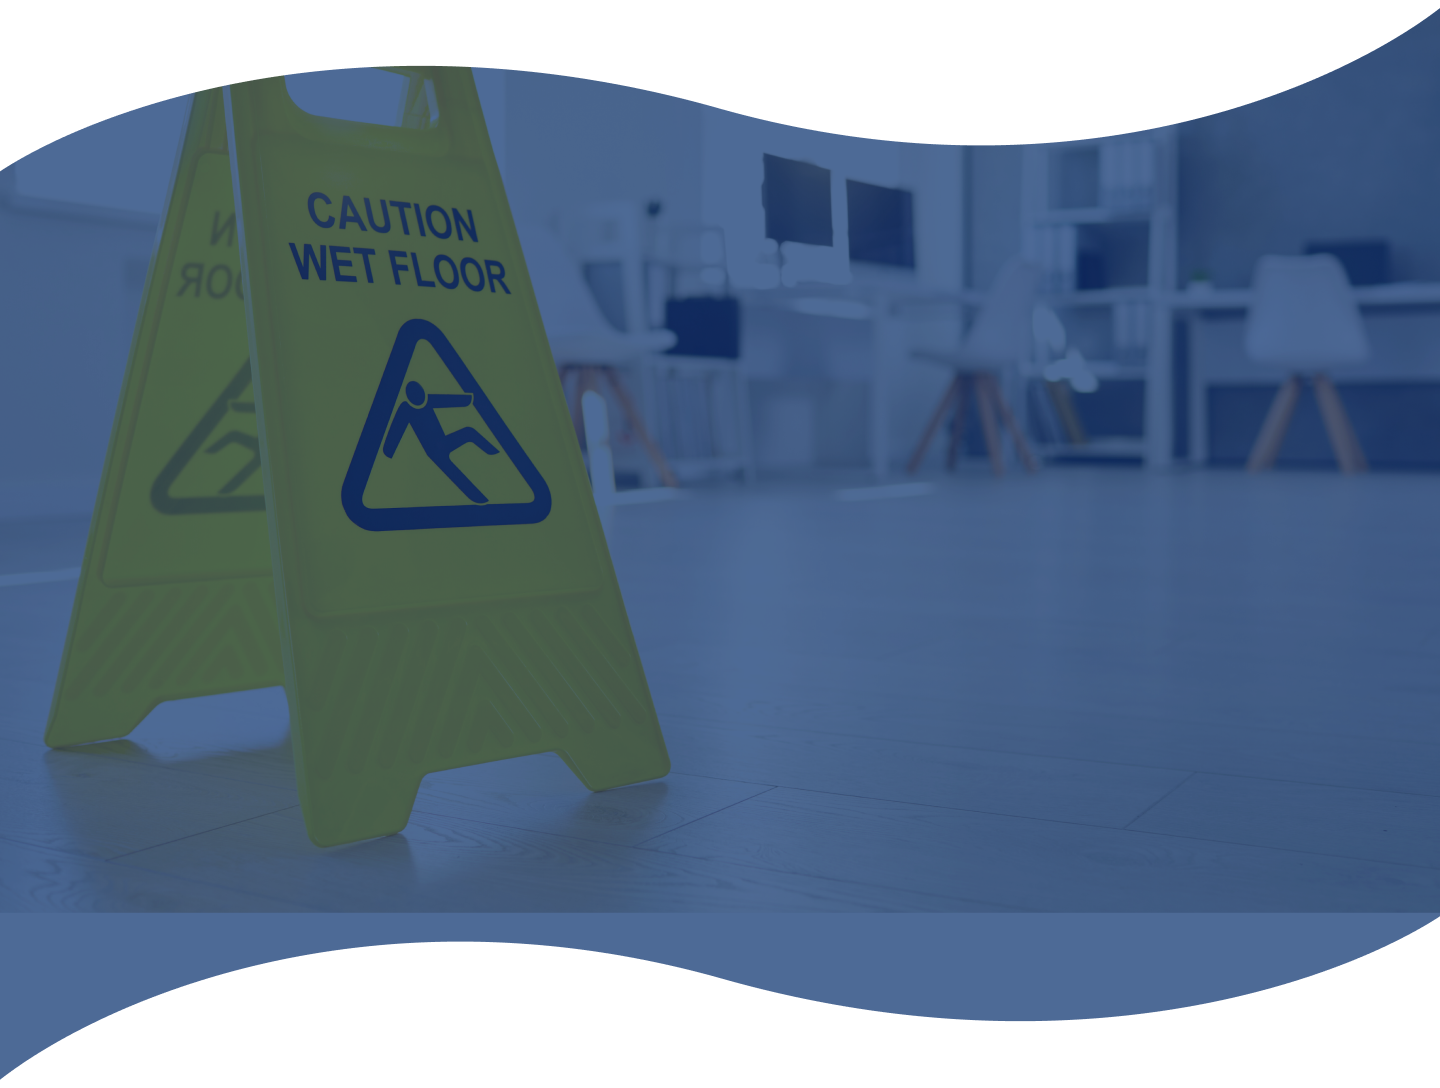
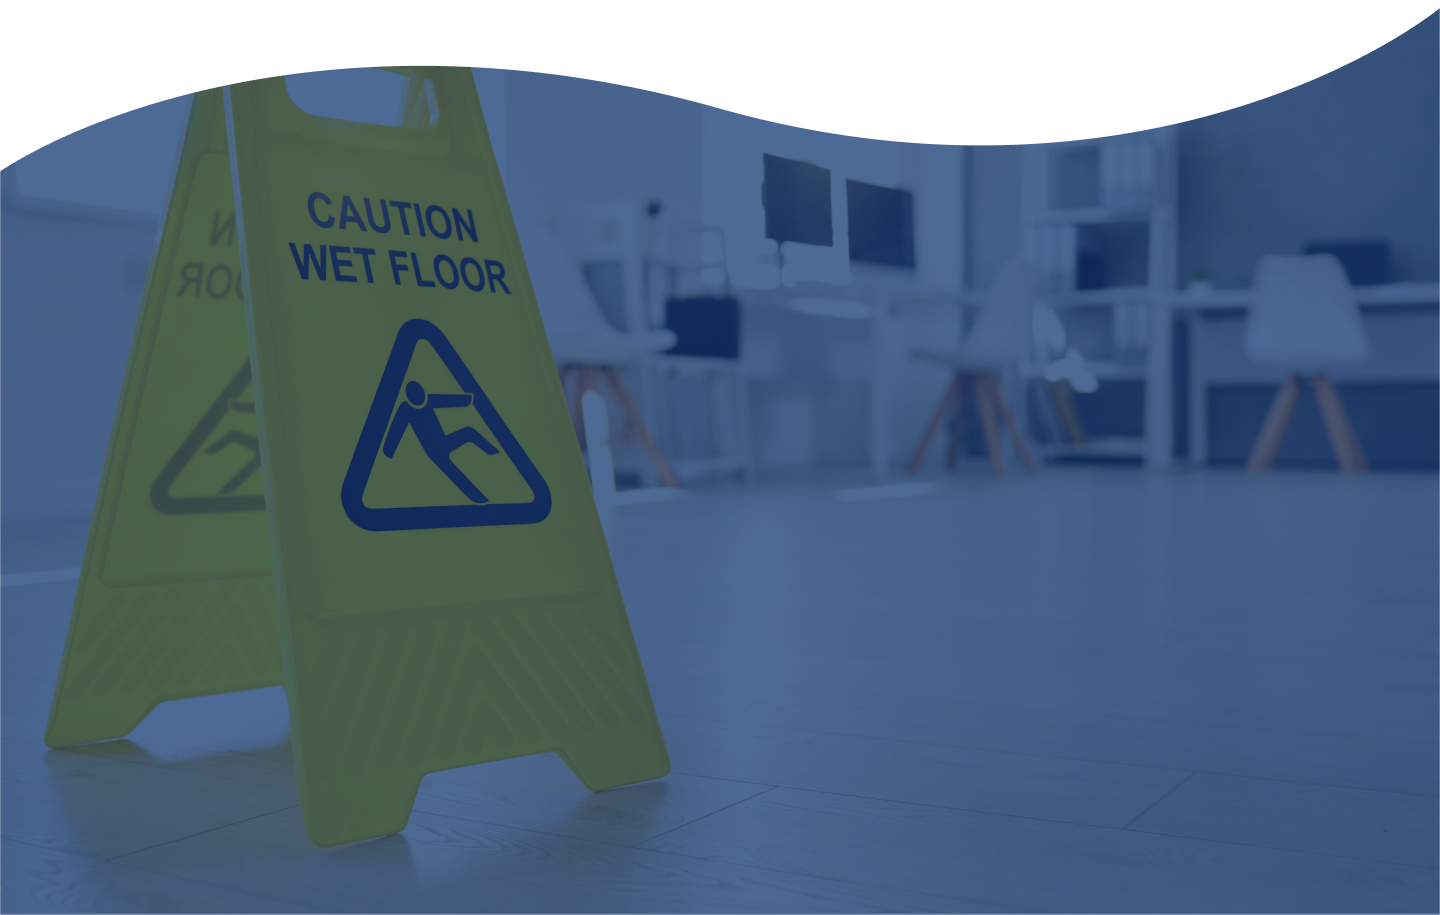
alteracoes3

diff --git a/css/style.css b/css/style.css
@@ -947,7 +947,7 @@ padding-left: 0;
 .missiongrid{
     flex-direction: column;
     width: 100%;
-    max-width: 903px;
+    max-width: 513px;
     padding: 50px;
     gap: 50px;
 }
@@ -1531,10 +1531,9 @@ form {
     margin: auto;
     height: auto;
     margin-top: 100px;
-    margin-bottom: 90px;
     background: url(../assets/Union22.png);
     background-position: cover;
-    background-size: 120%;
+    background-size: 100%;
     background-repeat: no-repeat;
 }
 .contact{
@@ -1544,7 +1543,7 @@ form {
     max-width: 1400px;
     margin: auto;
     height: 100%;
-    padding: 400px 50px 200px 50px;
+    padding: 300px 50px 90px 50px;
 }
 .contacttitle {
     display: flex;
@@ -1637,7 +1636,7 @@ input::placeholder, textarea::placeholder{
  @media screen and (max-width: 1500px) {
     .contactcontainer{
         background: url(../assets/Union22.png) no-repeat;
-        background-size: 100%;
+        background-size: 120%;
         max-height: 800px;
     }
 }
@@ -1792,7 +1791,6 @@ input::placeholder, textarea::placeholder{
 }
 @media screen and (max-width:770px) {
     .contactcontainer{
-        margin-bottom: 20px;
         margin-top: 0px;
         background-position: center;
     }
@@ -1806,8 +1804,8 @@ footer{
     width: 100%;
     max-width: 9999px;
     margin: auto;
-    height: 100px;
-    background-color: #FFF;
+    padding-top: 90px;
+    background-color: #001D47;
     font-family: 'Neue';
 }
 .footergrid{
@@ -1816,7 +1814,7 @@ footer{
     max-width: 1440px;
     margin: auto;
     justify-content: space-between;
-    padding: 0 10px 0 10px;
+    padding: 0 10px 20px 10px;
 }
 .footermenu1, .footermenu2{
     display: flex;
@@ -1828,11 +1826,11 @@ footer{
 }
 .footermenu1 ul li a, .footermenu2 ul li a{
     text-decoration: none;
-    color: #002A68;
+    color: #fff;
     font-family: 'Neue';
     font-size: 16px;
     font-style: normal;
-    font-weight: 600;
+    font-weight: 500;
     line-height: 160%;
 }
 .footermenu1 ul{
@@ -1870,10 +1868,10 @@ footer{
 .adress p{
     text-align: center;
     width: auto;
-    color: #002A68;
+    color: #fff;
     font-family: 'Neue';
     font-size: 16px;
-    font-weight: 600;
+    font-weight: 500;
     line-height: 120%; /* 25.6px */
 }
 .footersocials{
@@ -1883,11 +1881,11 @@ footer{
 .footersocials p{
     text-align: right;
     margin-right: 30px;
-    color: #002A68;
+    color: #fff;
     font-family: 'Neue';
     font-size: 16px;
     font-style: normal;
-    font-weight: 600;
+    font-weight: 500;
     line-height: 160%; /* 25.6px */
 }
 .footersocials ul {
@@ -1908,13 +1906,13 @@ footer{
     max-width: 9999px;
     margin: auto;
     padding: 34px 0;
-    background-color: #fff;
+    background-color: #001D47;
     align-items: center;
     text-align: center;
-    border-top: 1px solid #002a68b4;
+    border-top: 1px solid #fff;
 }
 .rights p{
-    color: #002A68;
+    color: #fff;
     font-family: 'Neue';
     font-size: 14.4px;
     font-weight: 500;
@@ -1925,9 +1923,6 @@ footer{
         position: relative;
         width: 100%;
         max-width: 9999px;
-        margin: auto;
-        height: 100px;
-        background-color: #FFF;
         margin: auto;
     }
     .footergrid{
@@ -1943,15 +1938,6 @@ footer{
     }
     .footermenu2 ul li {
         list-style: none;
-    }
-    .footermenu2 ul li a, .footermenu1 ul li a{
-        text-decoration: none;
-        color: #002A68;
-        font-family: 'Neue';
-        font-size: 16px;
-        font-style: normal;
-        font-weight: 600;
-        line-height: 160%;
     }
     .footermenu2, .footermenu1{
         display: flex;
@@ -2002,12 +1988,6 @@ footer{
     .footersocials p{
         text-align: center;
         margin: 0;
-        color: #002A68;
-        font-family: 'Neue';
-        font-size: 16px;
-        font-style: normal;
-        font-weight: 600;
-        line-height: 160%; 
     }
     .footersocials ul {
         list-style: none;
@@ -2016,7 +1996,6 @@ footer{
         justify-content: center;
         gap: 5px;
         padding-top: 8px;
-        margin-left: 19px;
     }
     .footersocials ul a{
         text-decoration: none;

diff --git a/index.html b/index.html
@@ -102,30 +102,30 @@
                   </a>
                 </div>
                 <div class="servicescard reveal" id="servicecard1">
-                  <a href="./services/postconstruction.html">
+                  <a href="./services/postconstructioncleaning.html">
                     <img src="./assets/services1.jpg" alt="" draggable="false">
                     <h2>Post Construction Cleaning</h2>
-                    <a class="btnservice btn-1" href="./services/postconstruction.html">
+                    <a class="btnservice btn-1" href="./services/postconstructioncleaning.html">
                       See more  <svg width="24" height="24" viewBox="0 0 24 24" fill="none" xmlns="http://www.w3.org/2000/svg">
                       <path d="M16.175 13H4V11H16.175L10.575 5.4L12 4L20 12L12 20L10.575 18.6L16.175 13Z" fill="#002A68"/>
                       </svg></a>
                   </a>
                 </div>
                 <div class="servicescard reveal" id="servicecard2">
-                  <a href="./services/moveinmoveoutcleaning.html">                    
+                  <a href="./services/moveinoutcleaning.html">                    
                     <img src="./assets/services2.jpg" alt="" draggable="false">
                     <h2>Move in  / Out Cleaning</h2>
-                    <a class="btnservice btn-1" href="./services/moveinmoveoutcleaning.html">
+                    <a class="btnservice btn-1" href="./services/moveinoutcleaning.html">
                       See more  <svg width="24" height="24" viewBox="0 0 24 24" fill="none" xmlns="http://www.w3.org/2000/svg">
                       <path d="M16.175 13H4V11H16.175L10.575 5.4L12 4L20 12L12 20L10.575 18.6L16.175 13Z" fill="#002A68"/>
                       </svg></a>
                   </a>
                 </div>
                 <div class="servicescard reveal" id="servicecard3">
-                  <a href="./services/officecleaning.html">
+                  <a href="./services/commercialcleaning.html">
                     <img src="./assets/services3.jpg" alt="" draggable="false">
                     <h2>Office & <br> Commercial Cleaning</h2>
-                    <a class="btnservice btn-1" href="./services/officecleaning.html">
+                    <a class="btnservice btn-1" href="./services/commercialcleaning.html">
                       See more  <svg width="24" height="24" viewBox="0 0 24 24" fill="none" xmlns="http://www.w3.org/2000/svg">
                       <path d="M16.175 13H4V11H16.175L10.575 5.4L12 4L20 12L12 20L10.575 18.6L16.175 13Z" fill="#002A68"/>
                       </svg></a>
@@ -393,7 +393,7 @@
           </ul>
         </div>
         <div class="footerimglogo">
-          <img src="./assets/imglogo.png" alt="" draggable="false">
+          <img src="./assets/Frame29.png" alt="" draggable="false">
         </div>
         <div class="adress">
           <p>6th Ave Cleaning Services

diff --git a/services/commercialcleaning.html b/services/commercialcleaning.html
@@ -68,11 +68,11 @@
     <main>
       <div class="popuptest" id="popup">
        <div class="popupgrid">
-         <div id="popup-3" class="popup">
-           <div class="content content3">
-             <h1>Post Construction<br>
+         <div id="popup-4" class="popup">
+           <div class="content content4">
+             <h1>Commercial<br>
               Cleaning</h1>
-             <p>We recognize the challenges inherent in completing construction projects. Our mission is to simplify the process through our exceptional post-construction cleaning services. We are dedicated to transforming your space into a pristine environment, meticulously prepared and ready for immediate use.</p>
+             <p>Transform your workspace with our meticulous commercial cleaning services. Our tailored cleaning plans enhance the appearance and functionality of your office, creating a productive and inviting environment for your team and clients.</p>
              <a class="bntpop" href="tel:+12165102031">
               <svg width="24" height="25" viewBox="0 0 24 25" fill="none" xmlns="http://www.w3.org/2000/svg">
               <g clip-path="url(#clip0_344_61)">
@@ -85,7 +85,7 @@
               </defs>
               </svg>
                Call now <br>(216)510-2031</a>
-              <img src="../assets/popup3.png" alt="dusting">
+              <img src="../assets/popup4.png" alt="dusting">
            </div>
          </div>
        </div>
@@ -140,7 +140,7 @@
      </ul>
    </div>
    <div class="footerimglogo">
-     <img src="../assets/imglogo.png" alt="" draggable="false">
+     <img src="../assets/Frame29.png" alt="" draggable="false">
    </div>
    <div class="adress">
      <p>6th Ave Cleaning Services

diff --git a/services/postconstructioncleaning.html b/services/postconstructioncleaning.html
@@ -68,11 +68,11 @@
     <main>
       <div class="popuptest" id="popup">
        <div class="popupgrid">
-         <div id="popup-4" class="popup">
-           <div class="content content4">
-             <h1>Commercial<br>
+         <div id="popup-3" class="popup">
+           <div class="content content3">
+             <h1>Post Construction<br>
               Cleaning</h1>
-             <p>Transform your workspace with our meticulous commercial cleaning services. Our tailored cleaning plans enhance the appearance and functionality of your office, creating a productive and inviting environment for your team and clients.</p>
+             <p>We recognize the challenges inherent in completing construction projects. Our mission is to simplify the process through our exceptional post-construction cleaning services. We are dedicated to transforming your space into a pristine environment, meticulously prepared and ready for immediate use.</p>
              <a class="bntpop" href="tel:+12165102031">
               <svg width="24" height="25" viewBox="0 0 24 25" fill="none" xmlns="http://www.w3.org/2000/svg">
               <g clip-path="url(#clip0_344_61)">
@@ -85,7 +85,7 @@
               </defs>
               </svg>
                Call now <br>(216)510-2031</a>
-              <img src="../assets/popup4.png" alt="dusting">
+              <img src="../assets/popup3.png" alt="dusting">
            </div>
          </div>
        </div>
@@ -140,7 +140,7 @@
      </ul>
    </div>
    <div class="footerimglogo">
-     <img src="../assets/imglogo.png" alt="" draggable="false">
+     <img src="../assets/Frame29.png" alt="" draggable="false">
    </div>
    <div class="adress">
      <p>6th Ave Cleaning Services

diff --git a/services/moveinoutcleaning.html b/services/moveinoutcleaning.html
@@ -140,7 +140,7 @@
      </ul>
    </div>
    <div class="footerimglogo">
-     <img src="../assets/imglogo.png" alt="" draggable="false">
+     <img src="../assets/Frame29.png" alt="" draggable="false">
    </div>
    <div class="adress">
      <p>6th Ave Cleaning Services

diff --git a/services/residentialcleaning.html b/services/residentialcleaning.html
@@ -139,7 +139,7 @@
      </ul>
    </div>
    <div class="footerimglogo">
-     <img src="../assets/imglogo.png" alt="" draggable="false">
+     <img src="../assets/Frame29.png" alt="" draggable="false">
    </div>
    <div class="adress">
      <p>6th Ave Cleaning Services
